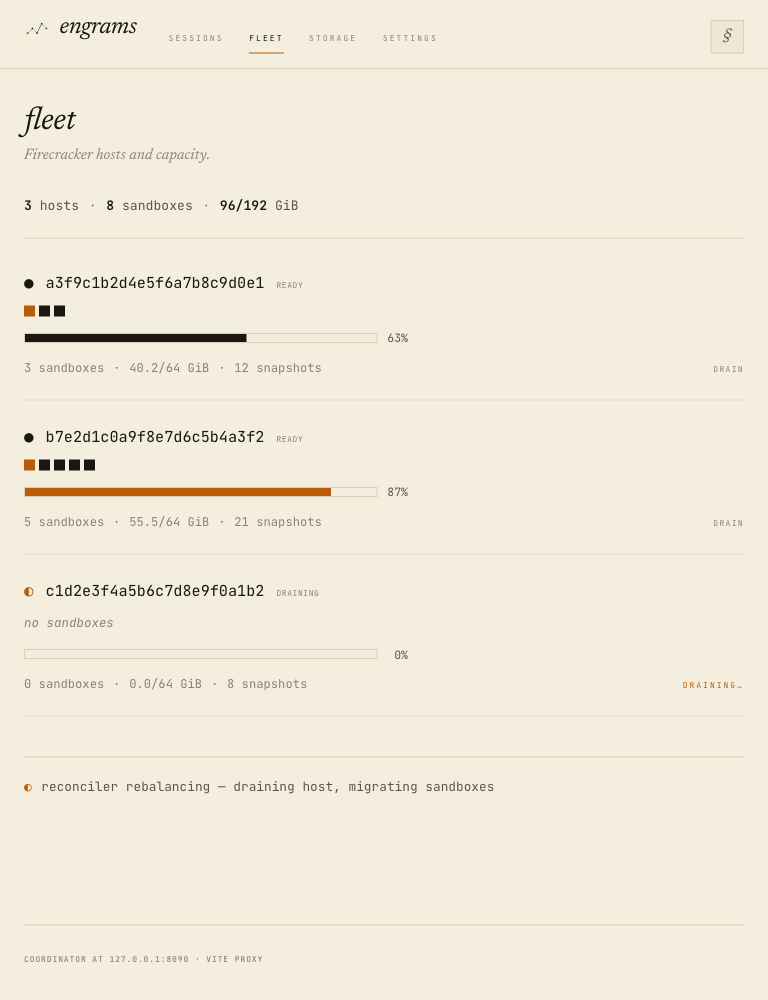
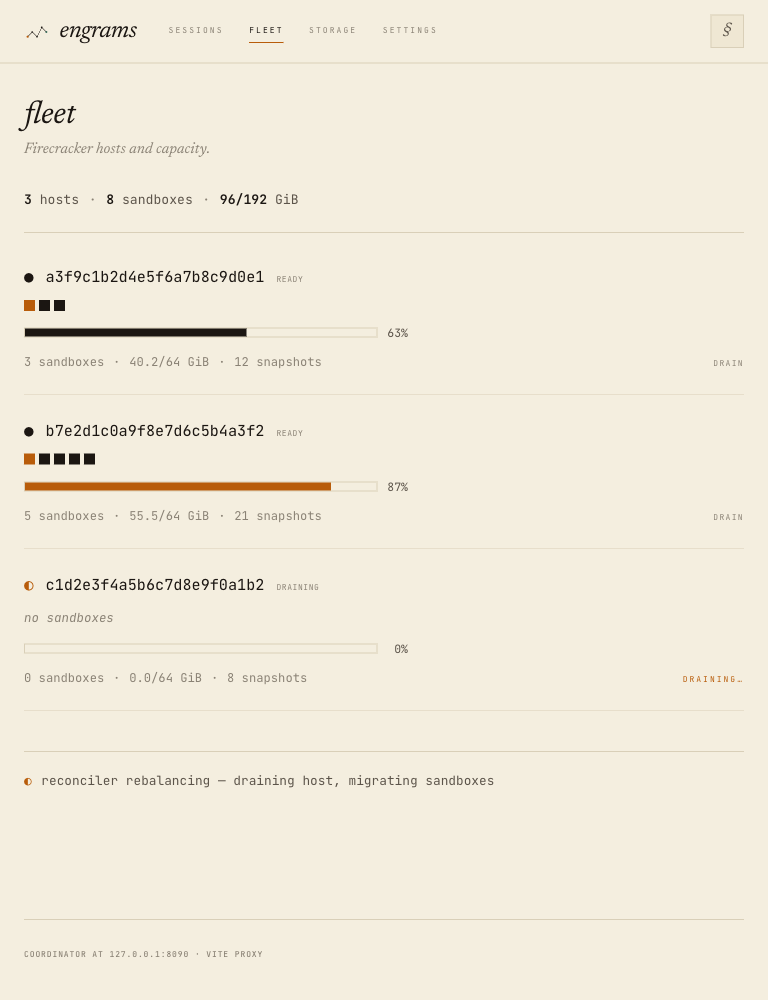
fix(web): vertically center the masthead row (brand + tabs aligned)
The nav spine used `align-items: baseline`, but the brand block is an
inline-flex whose baseline is taken from its first child — the icon
(an SVG, baselined at its bottom edge) — not the wordmark text. So the
large italic "engrams" rode high relative to the small mono tabs and
read as misaligned.

Center the row instead (mark + wordmark + tabs + § chip now share a
vertical centerline — measured centers within 1px), and re-anchor the
active-tab amber underline to sit just beneath the label (it was
pinned to the masthead rule via a baseline-era negative margin).
Refreshes the ADR screenshots to match.

diff --git a/web/src/theme.css b/web/src/theme.css
@@ -301,7 +301,11 @@ select.ledger-input {
 }
 .navspine-inner {
   display: flex;
-  align-items: baseline;
+  /* Center the row so the large italic wordmark, the mark, and the
+   * small mono tabs share a vertical centerline. (Baseline alignment
+   * pulled the brand's baseline from the icon, riding the wordmark
+   * high relative to the tabs.) */
+  align-items: center;
   gap: 2rem;
   padding-top: 0.9rem;
   padding-bottom: 0.9rem;
@@ -329,7 +333,7 @@ select.ledger-input {
 }
 .nav-tabs {
   display: flex;
-  align-items: baseline;
+  align-items: center;
   gap: 1.6rem;
   flex: 1;
 }
@@ -337,8 +341,10 @@ select.ledger-input {
   background: none;
   border: 0;
   cursor: pointer;
-  padding: 0 0 0.45rem;
-  margin-bottom: -0.9rem;
+  /* Underline sits just beneath the label now that the row is
+   * center-aligned (was anchored to the masthead rule via a negative
+   * margin under baseline alignment). */
+  padding: 0 0 0.3rem;
   border-bottom: 1px solid transparent;
   transition: color var(--dur-fast);
   font-family: var(--font-mono);
